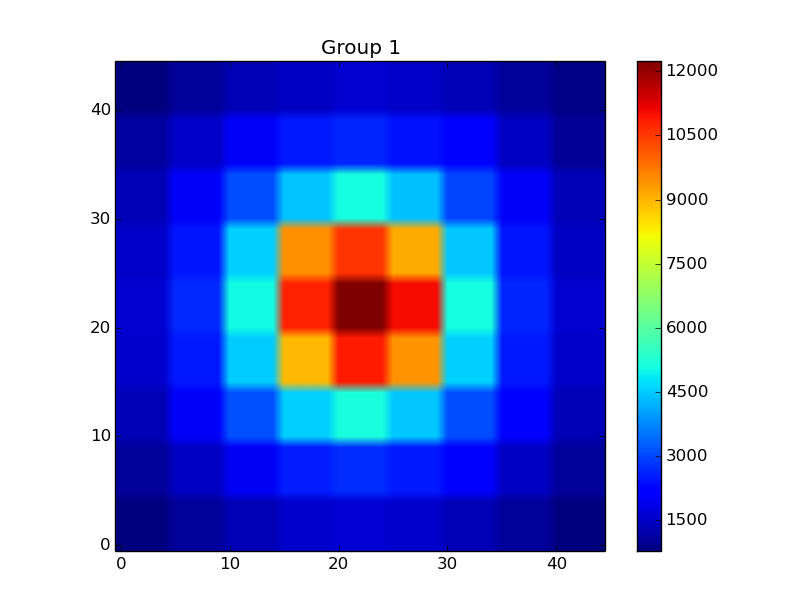
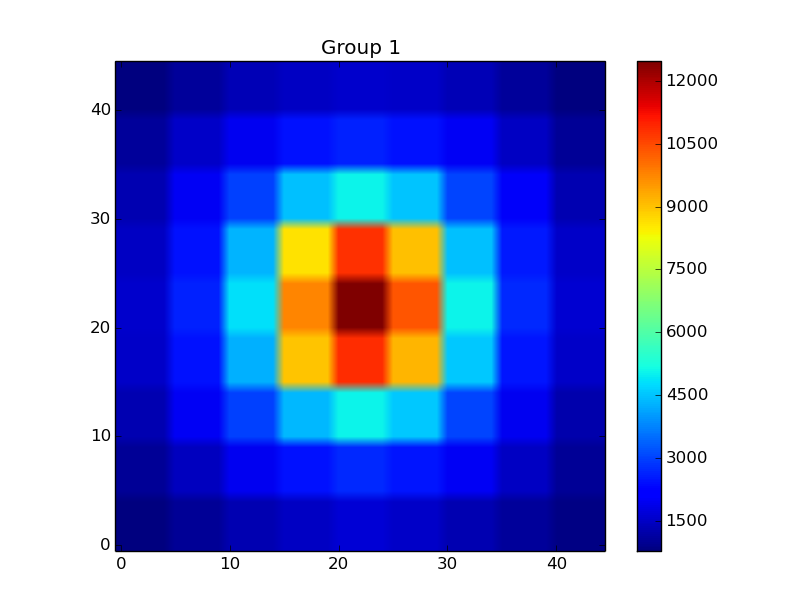
ran simulation with 100 batches. Added new images

diff --git a/monte_carlo.cpp b/monte_carlo.cpp
@@ -196,7 +196,6 @@ void transportNeutron(Boundaries bounds, std::vector <Tally> &tallies,
             neutron.move(tempd);
             
             // add distance to cell flux
-            group = neutron.getGroup();
             mesh.fluxAdd(cell, tempd, group);
            
             // determine boundary status
@@ -266,9 +265,7 @@ void transportNeutron(Boundaries bounds, std::vector <Tally> &tallies,
 
         // check interaction
         if (neutron.alive()) {
-
             cell_mat = mesh.getMaterial(cell);
-            group = neutron.getGroup();
 
             // sample what the interaction will be
             neutron_interaction = sampleInteraction(cell_mat, group);

diff --git a/main.cpp b/main.cpp
@@ -112,7 +112,7 @@ int main() {
     test_mesh.fillMaterials(fuel, fuel_limits);
 
     // get neutron histories
-    generateNeutronHistories(1000000, test_boundary, test_mesh, 10);
+    generateNeutronHistories(1000000, test_boundary, test_mesh, 100);
 
     // plot neutron flux
     std::vector <std::vector <std::vector <std::vector <double> > > > flux =
